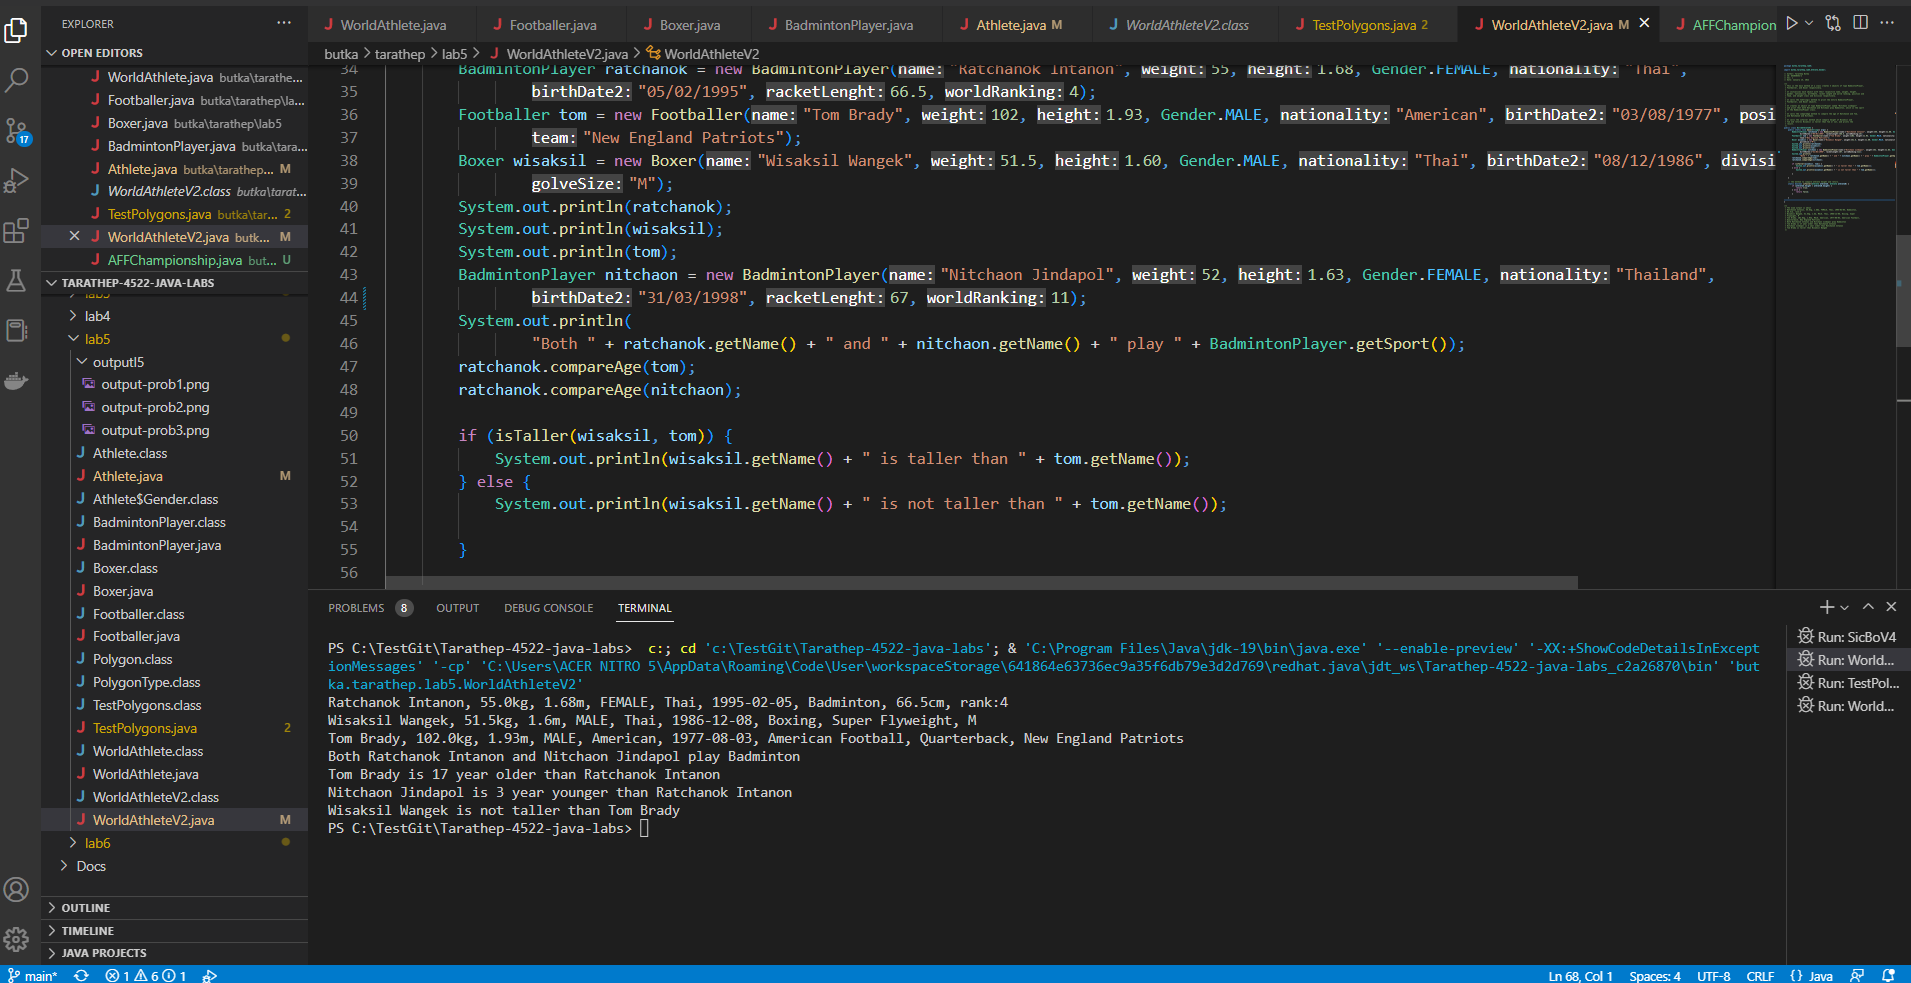
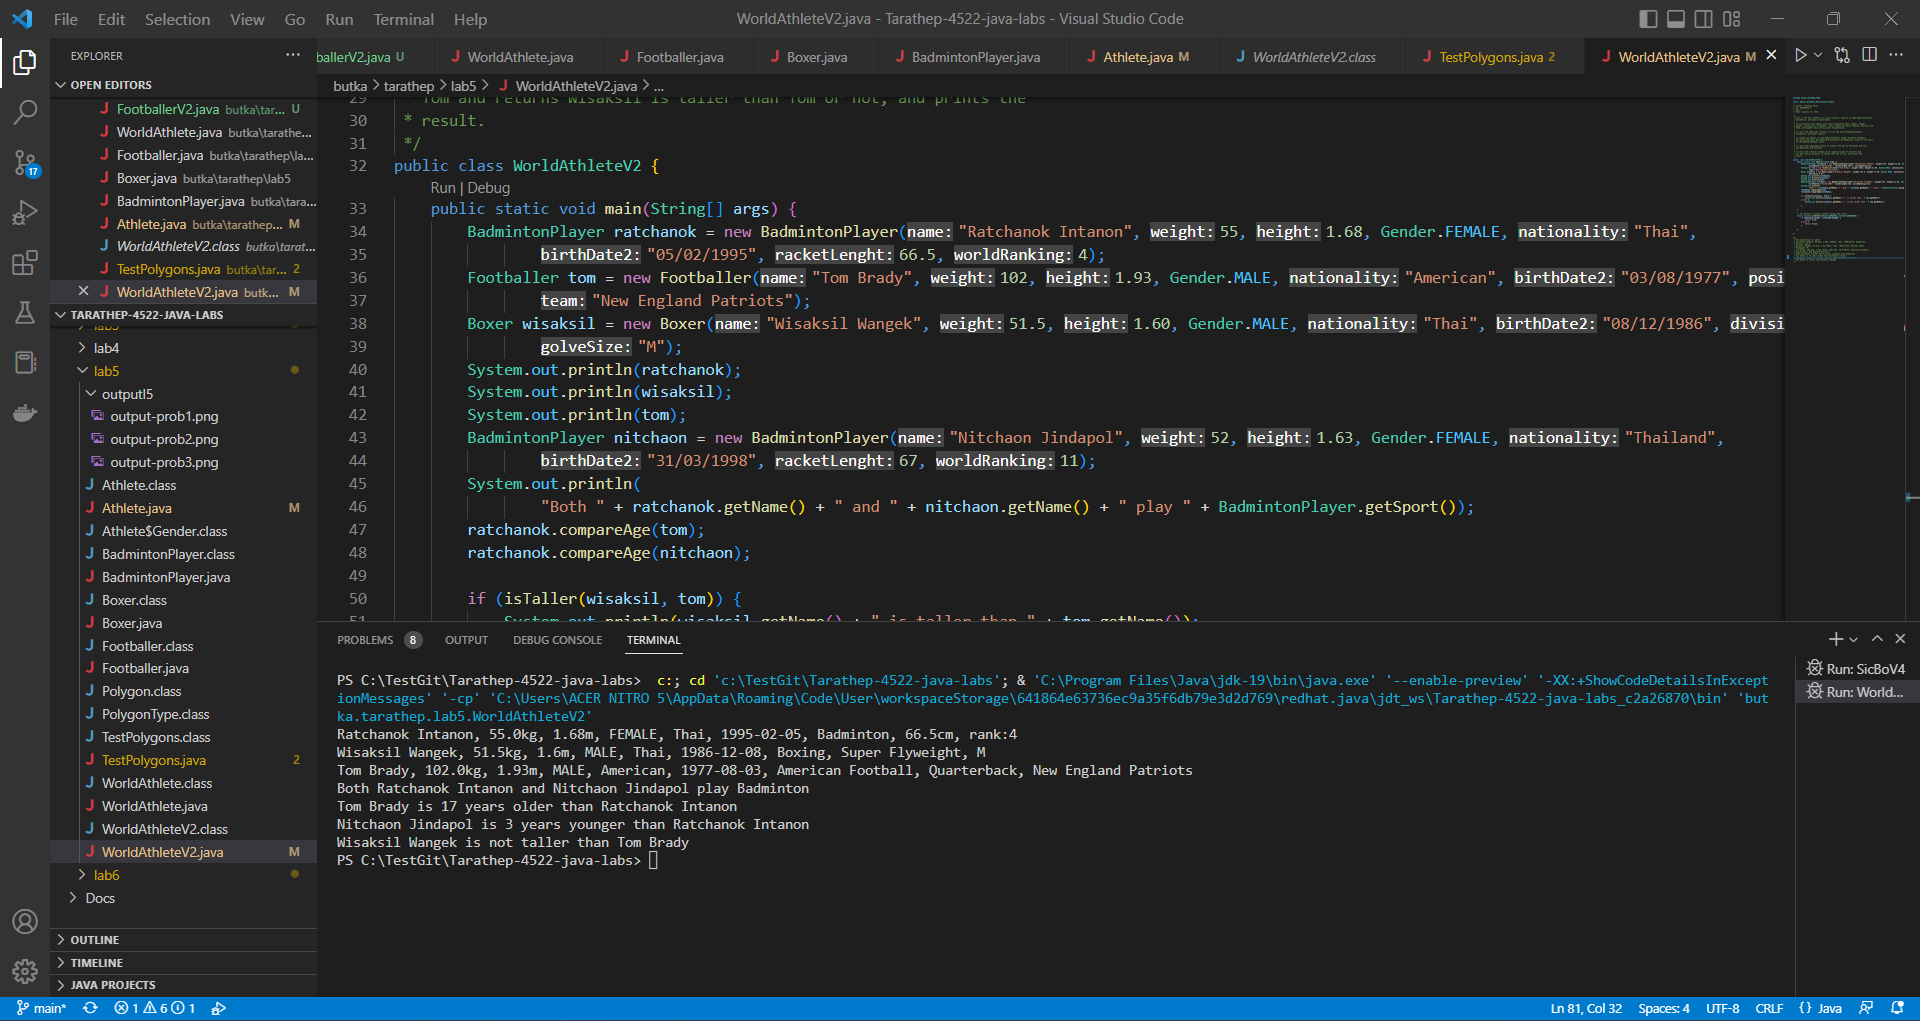
lab5

diff --git a/butka/tarathep/lab5/Athlete.java b/butka/tarathep/lab5/Athlete.java
@@ -106,11 +106,11 @@ public class Athlete {
         int year = (int) ChronoUnit.YEARS.between(dateBefore, dateAfter);
 
         if (year > 0) {
-            System.out.println(athleteB.getName() + " is " + year + " year older than " + name);
+            System.out.println(athleteB.getName() + " is " + year + " years older than " + name);
         } else if (year == 0) {
             System.out.println(name + " is as old as " + athleteB.getName());
         } else if (year < 0) {
-            System.out.println(athleteB.getName() + " is " + -year + " year younger than " + name);
+            System.out.println(athleteB.getName() + " is " + -year + " years younger than " + name);
         }
     }
 }

diff --git a/butka/tarathep/lab5/WorldAthleteV2.java b/butka/tarathep/lab5/WorldAthleteV2.java
@@ -77,7 +77,7 @@ public class WorldAthleteV2 {
  * Tom Brady, 102.0kg, 1.93m, MALE, American, 1977-08-03, American Football,
  * Quarterback, New England Patriots
  * Both Ratchanok Intanon and Nitchaon Jindapol play Badminton
- * Tom Brady is 17 year older than Ratchanok Intanon
- * Nitchaon Jindapol is 3 year younger than Ratchanok Intanon
+ * Tom Brady is 17 years older than Ratchanok Intanon
+ * Nitchaon Jindapol is 3 years younger than Ratchanok Intanon
  * Tom Brady is taller than Wisaksil Wangek
  */
